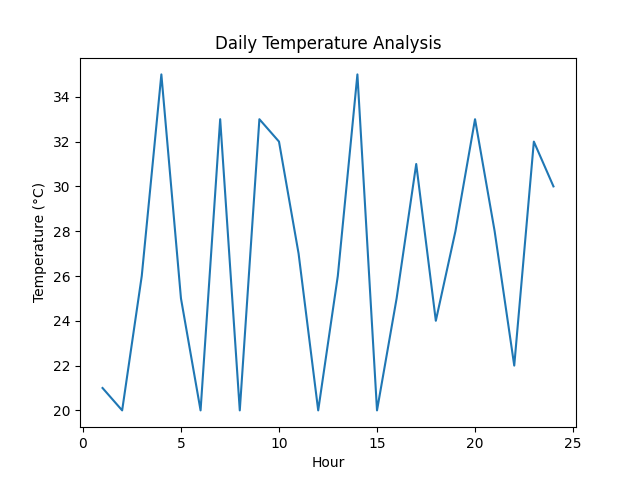
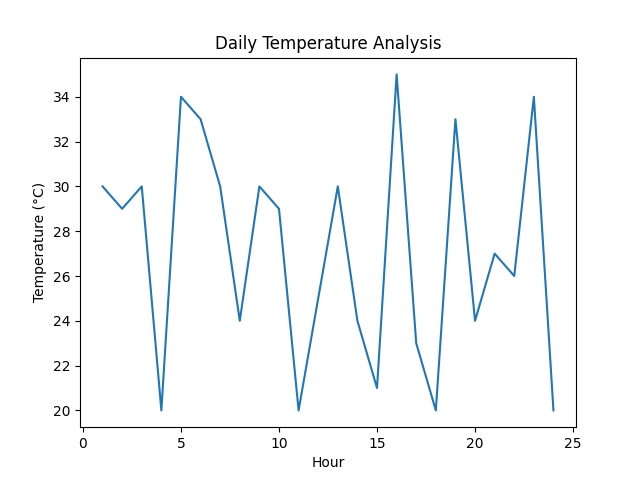
Update temperature plot

Changed region(s): [[0.1562, 0.1562, 0.875, 0.8438]]

diff --git a/open-meteo-weather-api.py b/open-meteo-weather-api.py
@@ -1,0 +1,97 @@
+import requests
+from datetime import datetime, timedelta
+import pandas as pd
+from database.database import DailyTemperature, init_db, get_session
+
+def fetch_temperature_data(latitude, longitude, start_date, end_date):
+    """Fetch temperature data from the Open-Meteo API"""
+    base_url = "https://api.open-meteo.com/v1/forecast"
+    
+    params = {
+        "latitude": latitude,
+        "longitude": longitude,
+        "start_date": start_date,
+        "end_date": end_date,
+        "daily": "temperature_2m_max,temperature_2m_min,temperature_2m_mean",
+        "timezone": "auto"
+    }
+    
+    try:
+        response = requests.get(base_url, params=params)
+        response.raise_for_status()  # Raise an exception for bad responses
+        data = response.json()
+        
+        df = pd.DataFrame({
+            "date": pd.to_datetime(data["daily"]["time"]),
+            "max_temp": data["daily"]["temperature_2m_max"],
+            "min_temp": data["daily"]["temperature_2m_min"],
+            "avg_temp": data["daily"]["temperature_2m_mean"]
+        })
+        
+        return df
+    
+    except requests.exceptions.RequestException as e:
+        print(f"Error fetching data from API: {e}")
+        return None
+
+def store_temperature_data(df):
+    """Store temperature data in the database"""
+    session = get_session()
+    for _, row in df.iterrows():
+        daily_temp = DailyTemperature(
+            date=row['date'].date(),
+            max_temp=row['max_temp'],
+            min_temp=row['min_temp'],
+            avg_temp=row['avg_temp']
+        )
+        session.add(daily_temp)
+    session.commit()
+    session.close()
+
+if __name__ == "__main__":
+    # Initialize the database
+    init_db()
+
+    # Set location as Cameron Highlands, Malaysia
+    location = {
+        "latitude": 4.48134836611477,
+        "longitude": 101.37709563633592
+    }
+
+    # Set date range
+    end_date = datetime.now().date()
+    start_date = end_date - timedelta(days=30)
+
+    # Fetch temperature data
+    temperature_data = fetch_temperature_data(
+        location["latitude"],
+        location["longitude"],
+        start_date.isoformat(),
+        end_date.isoformat()
+    )
+
+    if temperature_data is not None:
+        print(temperature_data.head())
+        store_temperature_data(temperature_data)
+        print("Temperature data stored in the database.")
+    else:
+        print("Failed to fetch temperature data.")
+
+# # Set location as Cameron Highlands, Malaysia
+# latitude = 4.48134836611477  # Cameron Highlands latitude
+# longitude = 101.37709563633592  # Cameron Highlands longitude
+# end_date = datetime.now().date()
+# start_date = end_date - timedelta(days=30)  # Fetch last 30 days of data
+
+# temperature_data = fetch_temperature_data(
+#     latitude, 
+#     longitude, 
+#     start_date.isoformat(), 
+#     end_date.isoformat()
+# )
+
+# if temperature_data is not None:
+#     print(temperature_data.head())
+#     # Here you can add code to store the data in your database
+# else:
+#     print("Failed to fetch temperature data.")

diff --git a/test_daily_temperature_analysis.py b/test_daily_temperature_analysis.py
@@ -2,14 +2,45 @@
 
 # Import libraries
 import unittest
-from daily_temperature_analysis import temperature_data
+from unittest.mock import patch
+from datetime import date
+from temperature_analysis import get_daily_temperatures
 
-# Define a test class that inherits from unittest.TestCase:
 class TestDailyTemperatureAnalysis(unittest.TestCase):
-    def test_temperature_data(self):
-        # Assert
-        # Write an assertion to verify the expected behavior of the temperature_data variable
-        self.assertIsInstance(temperature_data, list)
-        self.assertGreaterEqual(len(temperature_data), 24)
-        # Add more assertions as needed
+    @patch('temperature_analysis.get_daily_temperature')
+    def test_get_daily_temperatures_with_data(self, mock_get_daily_temperature):
+        # Mock the database query result
+        mock_result = unittest.mock.Mock()
+        mock_result.avg_temp = 25.5
+        mock_get_daily_temperature.return_value = mock_result
+
+        result = get_daily_temperatures(date.today())
+        self.assertEqual(result, [25.5] * 24)
+
+    @patch('temperature_analysis.get_daily_temperature')
+    def test_get_daily_temperatures_without_data(self, mock_get_daily_temperature):
+        # Mock no data in the database
+        mock_get_daily_temperature.return_value = None
+
+        result = get_daily_temperatures(date.today())
+        self.assertIsInstance(result, list)
+        self.assertEqual(len(result), 24)
+        self.assertTrue(all(20 <= temp <= 35 for temp in result))
+
+if __name__ == '__main__':
+    unittest.main()
+
+# import unittest
+# from daily_temperature_analysis import temperature_data
+
+# # Define a test class that inherits from unittest.TestCase:
+# class TestDailyTemperatureAnalysis(unittest.TestCase):
+#     def test_temperature_data(self):
+#         # Assert
+#         # Write an assertion to verify the expected behavior of the temperature_data variable
+#         self.assertIsInstance(temperature_data, list)
+#         self.assertGreaterEqual(len(temperature_data), 24)
+#         # Add more assertions as needed
+
+
 

diff --git a/temperature_analysis.py b/temperature_analysis.py
@@ -1,0 +1,45 @@
+from datetime import date, timedelta
+import random
+from database.queries import get_daily_temperature, get_temperature_range
+
+def get_daily_temperatures(target_date):
+    result = get_daily_temperature(target_date)
+    if result:
+        # Assuming you want 24 hourly values, we'll use the average temperature
+        return [result.avg_temp] * 24
+    else:
+        print(f"No data available for {target_date}, using random generation")
+        return [random.randint(20, 35) for _ in range(24)]
+
+def get_today_temperature():
+    """Retrieve today's temperature data"""
+    today = date.today()
+    temp = get_daily_temperature(today)
+    if temp:
+        print(f"Today's temperature: Max {temp.max_temp}, Min {temp.min_temp}, Avg {temp.avg_temp}")
+
+def get_last_7_days_temperatures():
+    """Retrieve temperature data for the last 7 days"""
+    today = date.today()
+    for i in range(7):
+        date_ = today - timedelta(days=i)
+        temp = get_daily_temperature(date_)
+        if temp:
+            print(f"{date_}: Max {temp.max_temp}, Min {temp.min_temp}, Avg {temp.avg_temp}")
+
+if __name__ == "__main__":
+    today = date.today()
+    temperature_data = get_daily_temperatures(today)
+    print(f"Today's temperatures: {temperature_data}")
+    get_today_temperature()
+    get_last_7_days_temperatures()
+
+    # Example of getting data for a range of dates
+    last_week = today - timedelta(days=7)
+    weekly_data = get_temperature_range(last_week, today)
+    if weekly_data:
+        print("Weekly temperature summary:")
+        for temp in weekly_data:
+            print(f"{temp.date}: Max {temp.max_temp}, Min {temp.min_temp}, Avg {temp.avg_temp}")
+    else:
+        print("No weekly data available")

diff --git a/daily_temperature_analysis.py b/daily_temperature_analysis.py
@@ -8,6 +8,18 @@ import pandas as pd
 import matplotlib
 matplotlib.use('Agg')
 import matplotlib.pyplot as plt
+from datetime import date
+from database.queries import get_daily_temperature
+from temperature_analysis import get_today_temperature, get_last_7_days_temperatures  # daily_temperature_analysis.py
+# from sqlalchemy import func  #With a database query
+
+today = date.today()
+db_result = get_daily_temperature(today)
+if db_result:
+    temperature_data = [db_result.avg_temp] * 24
+else:
+    temperature_data = [random.randint(20, 35) for _ in range(24)]
+
 
 
 # Generate random temperature data for a day
@@ -16,7 +28,7 @@ import matplotlib.pyplot as plt
 # 24 rows
 # 8 columns
 # Will be replaced with actual data from Temperature API like Open-Meteo API (FOSS)
-temperature_data = [random.randint(20, 35) for _ in range(24)]
+# temperature_data = [random.randint(20, 35) for _ in range(24)]
 
 # Create a DataFrame
 df = pd.DataFrame({'Hour': list(range(1, 25)), 'Temperature': temperature_data})

diff --git a/database/queries.py b/database/queries.py
@@ -1,0 +1,21 @@
+from .database import get_session, DailyTemperature
+
+def get_daily_temperature(date):
+    session = get_session()
+    try:
+        return session.query(DailyTemperature).filter(DailyTemperature.date == date).first()
+    finally:
+        session.close()
+
+def get_temperature_range(start_date, end_date):
+    session = get_session()
+    try:
+        results = session.query(DailyTemperature).filter(
+            DailyTemperature.date.between(start_date, end_date)
+        ).all()
+        return results
+    except Exception as e:
+        print(f"Error querying database: {e}")
+        return None
+    finally:
+        session.close()

diff --git a/database/database.py b/database/database.py
@@ -1,0 +1,21 @@
+from sqlalchemy import create_engine, Column, Integer, Float, Date
+from sqlalchemy.ext.declarative import declarative_base
+from sqlalchemy.orm import sessionmaker
+
+Base = declarative_base()
+
+class DailyTemperature(Base):
+    __tablename__ = 'daily_temperatures'
+
+    id = Column(Integer, primary_key=True)
+    date = Column(Date, unique=True, nullable=False)
+    max_temp = Column(Float)
+    min_temp = Column(Float)
+    avg_temp = Column(Float)
+
+engine = create_engine('sqlite:///temperatures.db')
+Base.metadata.create_all(engine)
+SessionLocal = sessionmaker(bind=engine)
+
+def get_session():
+    return SessionLocal()

diff --git a/database/__init__.py b/database/__init__.py
@@ -1,0 +1,4 @@
+from .queries import get_daily_temperature, get_temperature_range
+from .database import DailyTemperature
+
+__all__ = ['get_daily_temperature', 'get_temperature_range', 'DailyTemperature']

diff --git a/tempCodeRunnerFile.py b/tempCodeRunnerFile.py
@@ -1,0 +1,1 @@
+temperature_data = [random.randint(20, 35) for _ in range(24)]
